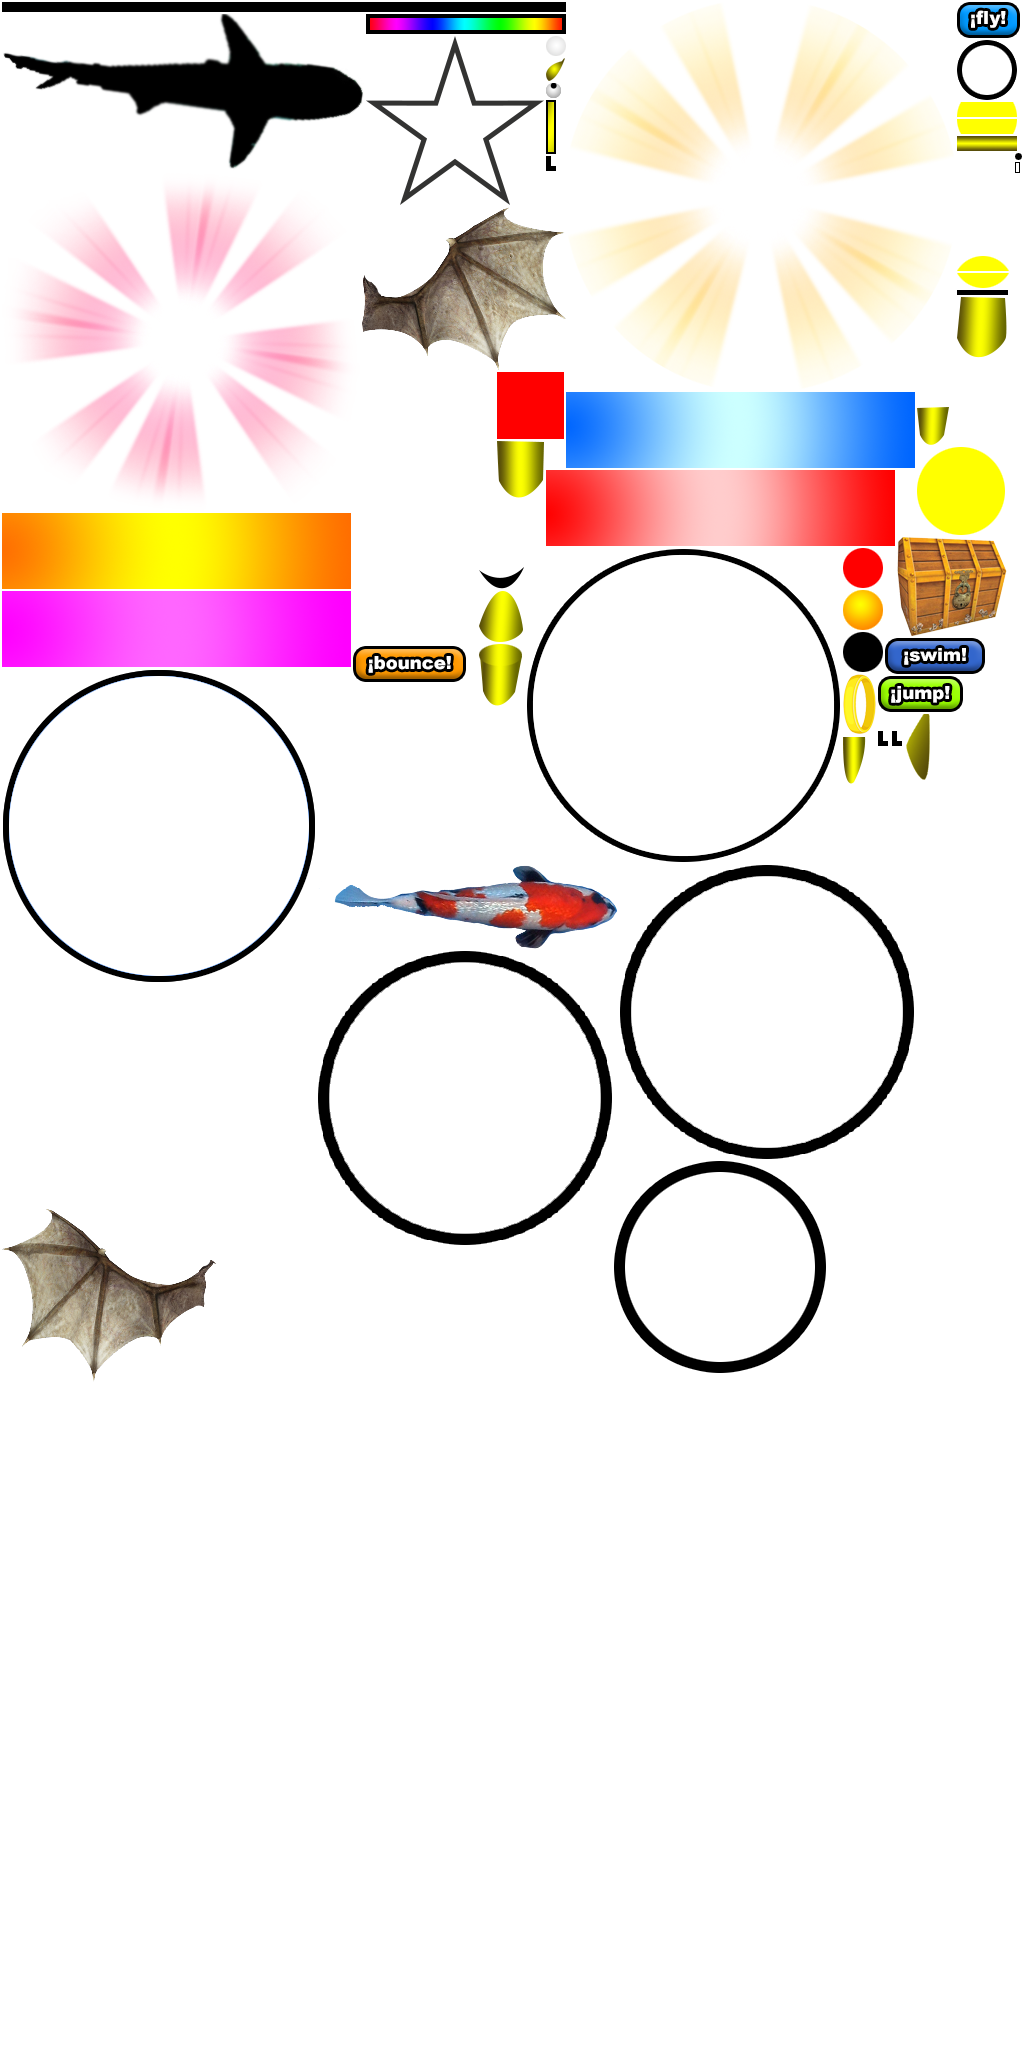
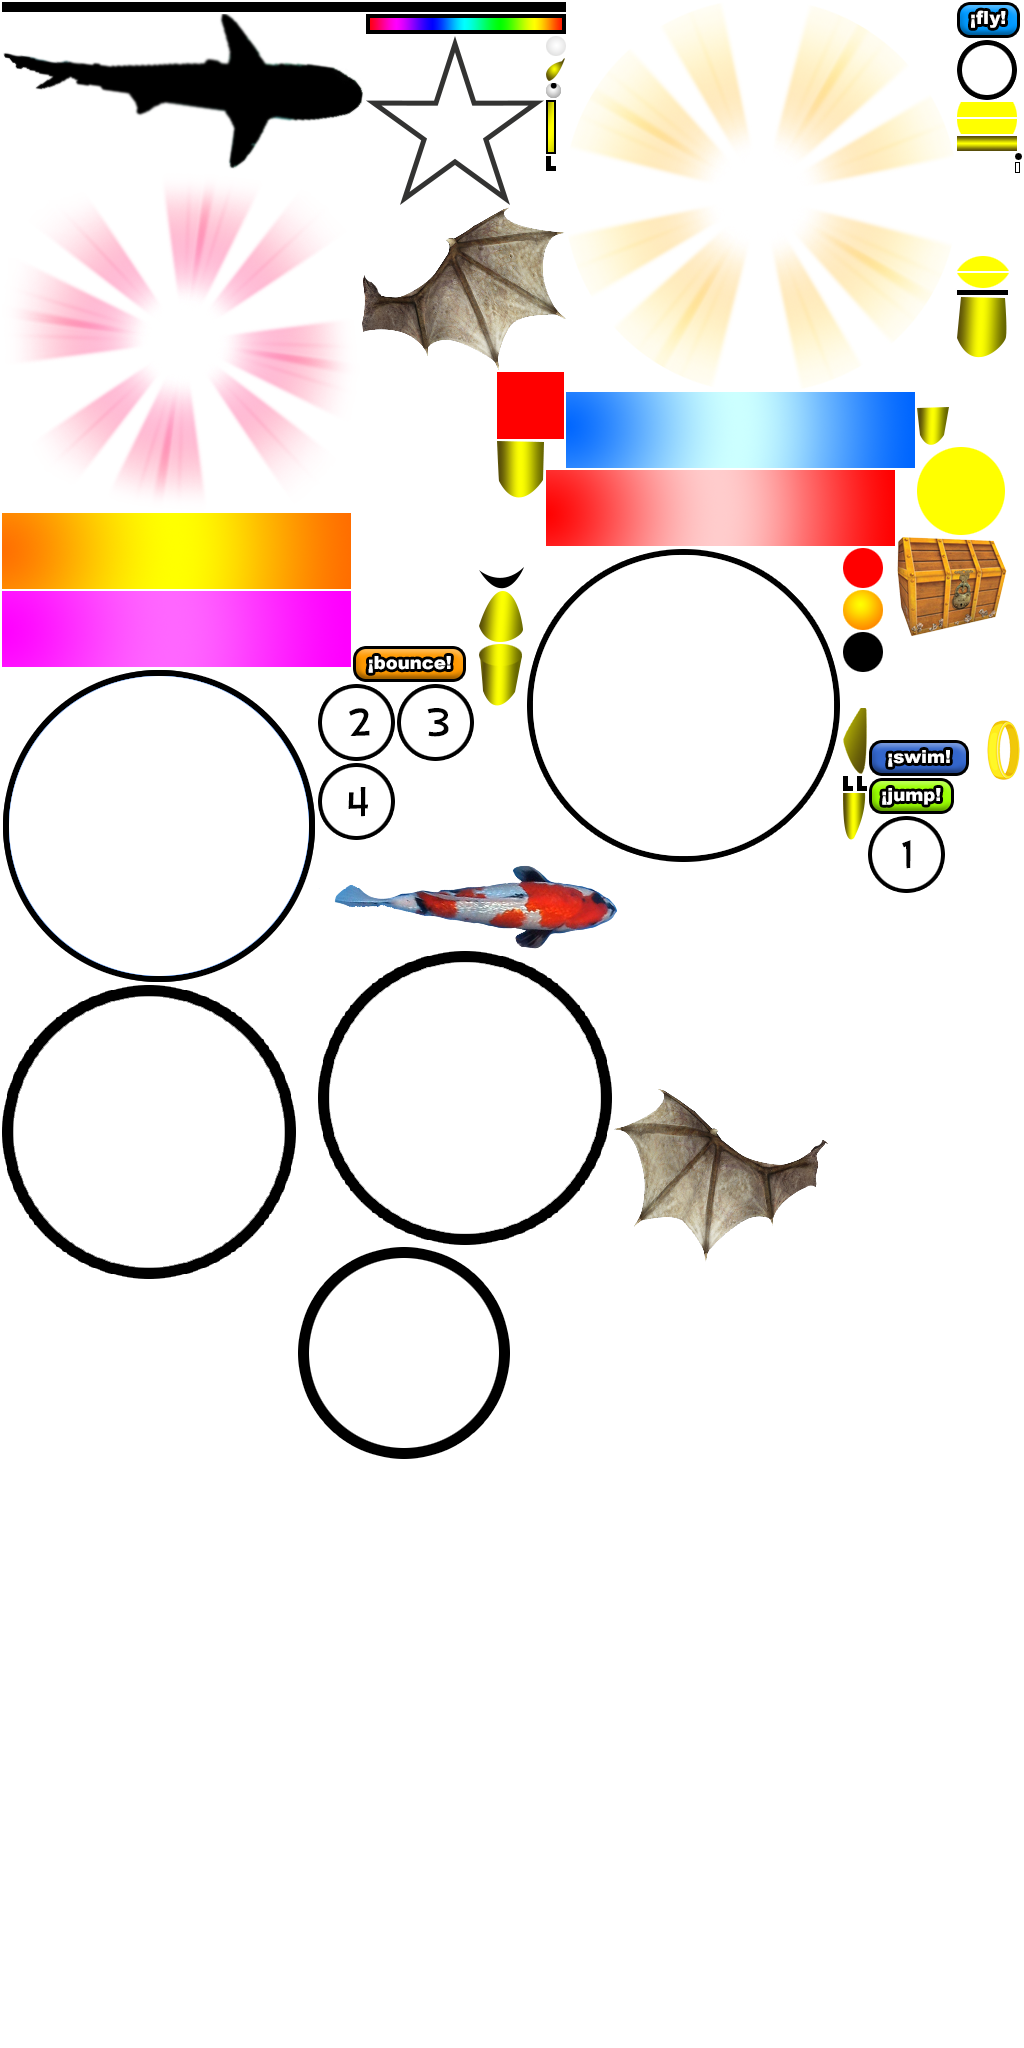
add tokens

diff --git a/src/animations/supportingClasses/grid/gridIndex.js b/src/animations/supportingClasses/grid/gridIndex.js
@@ -5,15 +5,16 @@ import { API_BASE_URL } from '../../../config';
 //import Config from './animationsConfig';
 export default {
 		cont: Assets.ParticleContainer(10000),
-		blockWidth: 500,
-		blockHeight: 500,
+		blockWidth: 150,
+		blockHeight: 150,
 		blocks: {},
 		utils: Utils,
 		colQ: 4,
 		rowQ: 10,
 		buffer: 10,
 		pause: true,
-		init: function (parentCont) {
+		tokens: [],
+		init: function (parent) {
 			let hero = this.utils.hero;
 			//console.log(hero.cont.x, hero.cont.y)
 
@@ -22,8 +23,8 @@ export default {
 			let jStart = Math.ceil(hero.cont.y / this.blockWidth);
 
 			//console.log(iStart, jStart);
-
-			this.parentCont = parentCont;
+			this.parent = parent;
+			this.parentCont = parent.stage;
 		
 			//console.log(this.blocks)
 			this.setLimits();
@@ -53,11 +54,15 @@ export default {
 			for(let arr of board.grid){
 				obj[`${arr[0]}_${arr[1]}`] = 'covered';
 			}
+			console.log(board)
 			// // add hero
 			// if (board.hero) {
 			// 	obj[`${board.hero.i}_${board.hero.j}`] = 'hero';
 			// }
-			
+			obj[`${board.token1.i}_${board.token1.j}`] = 'token1';
+			obj[`${board.token2.i}_${board.token2.j}`] = 'token2';
+			obj[`${board.token3.i}_${board.token3.j}`] = 'token3';
+			obj[`${board.token4.i}_${board.token4.j}`] = 'token4';
 			return obj
 		},
 		buildGrid: function (data) {
@@ -79,6 +84,10 @@ export default {
 					text.x = b.x;
 					text.y = b.y;
 					//this.cont.addChild(text);
+					if(obj[`${i}_${j}`] && obj[`${i}_${j}`].includes('token')) {
+						let num = obj[`${i}_${j}`].slice(-1);
+						this.placeToken(num, b.x, b.y)
+					}
 					this.cont.addChild(b);
 					this.blocks[i][j] = b;
 					counter ++;
@@ -88,14 +97,23 @@ export default {
 			this.setLimits();
 			this.pause = false;
 		},
+		placeToken: function (num, x, y) {
+			let t = Assets.Sprite(`token${num}.png`);
+			t.anchor.set(0.5)
+			t.num = num;
+			t.x = x + this.blockWidth / 2;
+			t.y = y + this.blockHeight / 2;
+			this.tokens.push(t);
+			this.cont.addChild(t);
+		},
 		setAction: function (action) {
 			this.action = action;
 		},
 		block: function (bool) {
-			let b = Assets.Sprite('redTile.png');
+			let b = Assets.Sprite('whiteTile.png');
 			b.width = this.blockWidth;
 			b.height = this.blockHeight;
-			b.alpha = 0;
+			b.alpha = 0.25;
 			if (bool) {
 				b.alpha = 1;
 			} 
@@ -233,7 +251,27 @@ export default {
 			let currentSquare = this.currentSquare();
 			this.createBoundaries(currentSquare);
 			
-			
+			for (let i = 0; i < this.tokens.length; i ++) {
+				let t = this.tokens[i];
+				let ballA = {
+					x: this.utils.canvasWidth / 2,
+					y: this.utils.canvasHeight / 2,
+					radius: 10
+				}
+				let globalPoint = this.cont.toGlobal(t);
+				let ballB = {
+					x: globalPoint.x,
+					y: globalPoint.y,
+					radius: 30
+				}
+				let x = this.utils.circleToCircleCollisionDetection(ballA, ballB);
+
+				if (x[0] && t.alpha){
+					t.alpha = 0;
+					console.log('hit', t.num);
+					this.parent.levelSlots.fillSlot(t.num);
+				}
+			}
 			
 			
 			//boundaries

diff --git a/src/animations/supportingClasses/level/levelSlots.js b/src/animations/supportingClasses/level/levelSlots.js
@@ -5,20 +5,32 @@ export default function () {
 	return {
 		cont: Assets.Container(),
 		utils: Utils,
+		slots: [],
 		init: function (parentCont) {
 			this.parentCont = parentCont;
 			let s;
 			for(let i = 0; i < 4; i ++){
+				let c = Assets.Container();
 				s = Assets.Sprite('slot.png');
+				s.anchor.set(0.5);
 				s.alpha = 0.25;
-				s.x = 50 * i;
-				this.cont.addChild(s);
+				c.x = 50 * i;
+				c.addChild(s);
+				this.slots.push(c);
+				this.cont.addChild(c);
 			}
 			return this;
 			
 		},
+		fillSlot: function (num) {
+			console.log(num)
+			let token = Assets.Sprite(`token${num}.png`);
+			token.anchor.set(0.5);
+			let index = num - 1;
+			this.slots[index].addChild(token);
+		},
 		addToStage: function () {
-			this.cont.x = (this.utils.canvasWidth - this.cont.width) /2;
+			this.cont.x = (this.utils.canvasWidth - this.cont.width) / 2;
 			this.cont.y = this.utils.canvasHeight - this.cont.height - 100;
 			this.parentCont.addChild(this.cont);
 		},
@@ -26,7 +38,7 @@ export default function () {
 			
 		},
 		resize: function () {
-			this.cont.x = (this.utils.canvasWidth - this.cont.width) /2;
+			this.cont.x = (this.utils.canvasWidth - this.cont.width) / 2;
 			this.cont.y = this.utils.canvasHeight - this.cont.height - 100;
 		},
 		animate: function () {

diff --git a/src/animations/intro_animation.js b/src/animations/intro_animation.js
@@ -215,9 +215,8 @@ export default function(obj) {
 
 
             this.transitionAnimation.init(this);
-            this.grid.init(this.stage);
+            this.grid.init(this);
             let index = this[this.activeMode].background.gridIndex + 1;
-            console.log("index = ", index)
             this.grid.addToStage(index);
 
     
